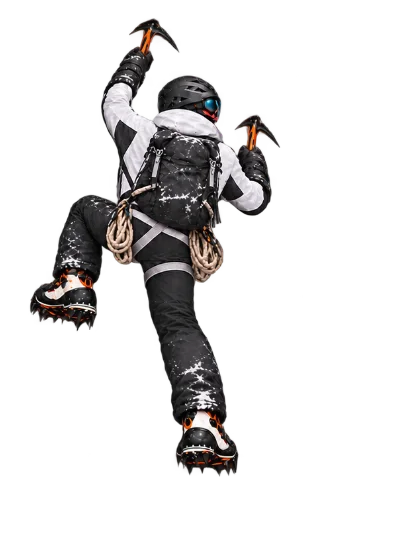
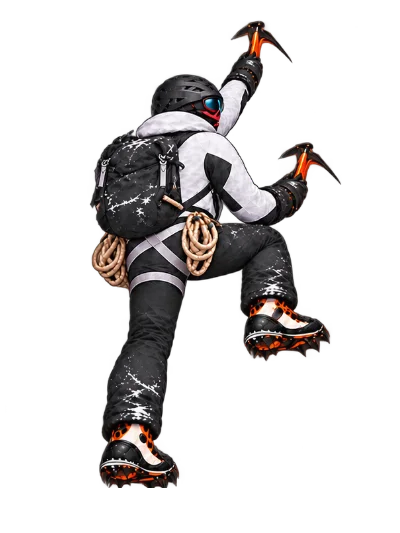
Keep Ascent climber right-facing through every pose

Changed region(s): [[0.06, 0.03, 0.84, 0.9306], [0.84, 0.3302, 0.87, 0.3602]]

diff --git a/_includes/expedition.html b/_includes/expedition.html
@@ -22,7 +22,7 @@
         <ellipse class="expedition-contact-shadow" data-expedition-contact rx="17" ry="5" filter="url(#expedition-contact-blur)" />
         <g class="expedition-climber" data-expedition-climber>
           <svg x="-54" y="-106" width="88" height="117" viewBox="0 0 400 533" overflow="visible">
-            <image data-climber-frame-primary href="{{ '/assets/media/ascent-climber-frame-01.webp' | relative_url }}?v=ascent-11" width="400" height="533" />
+            <image data-climber-frame-primary href="{{ '/assets/media/ascent-climber-frame-01.webp' | relative_url }}?v=ascent-12" width="400" height="533" />
           </svg>
         </g>
       </g>

diff --git a/_layouts/default.html b/_layouts/default.html
@@ -19,7 +19,7 @@
   <script src="{{ '/assets/js/site.js' | relative_url }}" defer></script>
   <script src="{{ '/assets/js/experience.js' | relative_url }}" defer></script>
   <script src="{{ '/assets/js/contact.js' | relative_url }}" defer></script>
-  {% if page.url == '/journey/' %}<script src="{{ '/assets/js/expedition.js' | relative_url }}?v=ascent-11" defer></script>{% endif %}
+  {% if page.url == '/journey/' %}<script src="{{ '/assets/js/expedition.js' | relative_url }}?v=ascent-12" defer></script>{% endif %}
 </head>
 <body data-baseurl="{{ site.baseurl }}">
   {% include header.html %}

diff --git a/PROJECT_STATUS.md b/PROJECT_STATUS.md
@@ -4,7 +4,7 @@ Updated: October 12, 2026 (America/Los_Angeles).
 
 ## Current state
 
-**The approved site design remains intact. The dedicated Ascent now uses 16 newly drawn, complete black-and-white mountaineer poses.** Each image contains the whole body and gear; the old hinge-based artwork and six previous pose sources are no longer used. The self-service Markdown workflow, original content, four navigation destinations, existing links and approved page structure remain intact. Earlier Firefox/WebKit results predate this latest refinement; their executables are unavailable in this environment. Nothing has been pushed, merged or deployed.
+**The approved site design remains intact. The dedicated Ascent uses 16 complete black-and-white mountaineer poses, now all viewed from the same right-facing rear-three-quarter angle.** Each image contains the whole body and gear, including both legs and boots; the old hinge-based artwork is no longer used. The self-service Markdown workflow, original content, four navigation destinations, existing links and approved page structure remain intact. Earlier Firefox/WebKit results predate this latest refinement; their executables are unavailable in this environment. Nothing has been pushed, merged or deployed.
 
 - Active repository: `C:/Users/super/Documents/ChatGPT/portfolio website remodel/portfolio-v2`.
 - Branch: `codex/portfolio-v2`, based on `da50b14` (`main`).
@@ -13,7 +13,16 @@ Updated: October 12, 2026 (America/Los_Angeles).
 - Local preview: `http://127.0.0.1:4173/`, serving production `_site` output.
 - Parent workspace `PROJECT_STATUS.md` points here. This is the canonical handoff.
 
-## October 12 complete-frame redraw — latest handoff
+## October 12 right-facing pose correction — latest handoff
+
+- Completed: replaced the three middle/end sprite sheets that had turned the character to a straight-back view or hidden a leg. All 16 shipped whole-body frames now use the same right-facing rear-three-quarter view as the user's third reference screenshot, with blue goggle profile visible, two separately drawn legs/boots and two ice tools directed at the wall to the right. Regenerated the WebPs, inspected a 16-pose contact sheet and a rendered `/journey/` desktop scene, and bumped the site assets to `ascent-12`. No background, page layout, content, routes or other site component changed.
+- Currently in progress: none after this correction is committed; real-device review remains before production.
+- Design/technical decisions: retain individually drawn complete frames and the existing registered image/camera architecture. Do not rotate the character toward the viewer during handovers. No separate hinged or scaled body parts are shipped.
+- Testing performed: baseline Chrome Ascent test passed before editing. A first post-edit test caught an overextended support leg; that source sheet was redrawn and regenerated. Reviewed all 16 exported figures in a contact sheet and inspected frames 01, 06, 09 and 14 over the actual `/journey/` wall in Chrome. Production Jekyll build, all 16 frame decoding and leg/boot checks, full Chrome suite (94 routes, 132 responsive pages, 22 axe scans, six general groups, 10 experience groups, 11 editorial groups and 10 Ascent groups), source/content integrity (26 original files, nine post routes, 47 HTML pages, 1,688 local references), JavaScript syntax and Git whitespace checks all passed.
+- Known issues and limits: independent generated drawings still step discretely at very slow scroll speeds. The right-facing composition makes the bent near leg dominate the illustrated cycle; the opposite-side foot action is less distinct than an accurately animated two-sided climb. The tools are shown in right-facing side profile, but their exact contact points are illustrative. Real-device motion review, Firefox/WebKit runners, branch-only Linux CI and custom-domain verification remain outstanding. Nothing pushed, merged or deployed.
+- **Exact recommended next task:** review the revised right-facing Ascent with slow and fast scrolling on a real desktop and phone. If the climbing gait still needs fully alternating leg action without a viewpoint change, create a purpose-animated full-body sequence from one consistent 3D character model, render each complete pose, and replace the current sprite sources; keep the approved site design and whole-frame playback. Then run cross-browser and branch-only CI before production.
+
+## October 12 complete-frame redraw — earlier handoff, superseded where noted above
 
 - Completed: replaced the previous six mixed pose sources with four fresh transparent 2 × 2 sheets containing 16 individually drawn **whole climbers**. Curated the step and handover order, aligned frames by the goggle position at export, removed a stray crop fragment, regenerated all 400 × 533 WebPs and removed the unused seventeenth frame. The runtime still displays one whole image at a time; there are no separate arm/leg/body pieces, joint rotations, or limb scaling. Ice tools read in side profile toward the wall. The Everest background, route, posts, page layouts, navigation and other site elements were not changed. Bumped Ascent asset/script URLs to `ascent-11`.
 - Currently in progress: none in the code. A real-device motion judgment remains before calling the animation production-ready.

diff --git a/docs/ASCENT_ART.md b/docs/ASCENT_ART.md
@@ -10,7 +10,8 @@ The mountain backdrop, close ice wall and climber poses are original generated i
 - Earlier orange climber source: `assets/img/ascent-climber-frames.png`; its first transparent pose remains at `assets/media/ascent-climber-01.webp` for provenance, but is no longer loaded by the page. That sheet did not provide the current black-and-white frame sequence.
 - Earlier black-and-white climber source: `assets/img/ascent-climber-alpine.png` (1086 × 1448, transparent); optimized single pose: `assets/media/ascent-climber-alpine.webp`. It informed the current clothing, gear and view angle. The hinged raster-limb rig that cut up this painting was removed after it repeatedly produced broken-looking joints.
 - Current animation sources: four newly generated transparent 2 × 2 sheets, `assets/img/ascent-climber-clean-right.png`, `ascent-climber-clean-crossover-left.png`, `ascent-climber-clean-left.png`, and `ascent-climber-clean-crossover-right.png`. Every panel is an independently drawn **complete figure** with its own torso, arms, legs, boots, tools and gear. The former six pose sources were removed after the clean-sheet redraw; Git history retains them. `npm run build:climber-frames` selects and orders 16 complete poses, aligns each by its blue goggle lens, removes tiny disconnected crop artifacts, and exports `assets/media/ascent-climber-frame-01.webp` through `-16.webp` (400 × 533). `node scripts/preview_climber_frames.cjs` writes an inspection contact sheet to `test-results/`.
-- The site warms the remaining 15 WebPs after the first page paint or on the viewer's first scroll interaction, and shows exactly one complete pose at a time. Arms, legs, jacket and gear are never independently rotated or resized. A two-image crossfade was previously rejected because it made the climber translucent and duplicated tools/feet; an optical-flow intermediate produced broken extra legs. The scene's route/camera update continuously, while the artwork remains 16 discrete poses per entry rather than a filmed or physically simulated climb. Reduced-motion holds the first pose. The outfit is unbranded black-and-white alpine technical gear. The rendered asset and script version is `ascent-11`.
+- October 12 right-profile correction: replaced the crossover-left, left-leading, and crossover-right sheets after browser screenshots revealed straight-back poses and a hidden leg. All 16 current frames retain the right-facing rear-three-quarter camera view established by the right-leading sheet. Both legs and crampon boots are visible in every frame, and the ice-axe pick ends face the wall on the right. The rendered asset/script URL is `ascent-12`. The pose sequence remains an illustration with discrete frames; a more physically faithful alternating-foot cycle would need dedicated character animation rather than further swapping independently generated stills.
+- The site warms the remaining 15 WebPs after the first page paint or on the viewer's first scroll interaction, and shows exactly one complete pose at a time. Arms, legs, jacket and gear are never independently rotated or resized. A two-image crossfade was previously rejected because it made the climber translucent and duplicated tools/feet; an optical-flow intermediate produced broken extra legs. The scene's route/camera update continuously, while the artwork remains 16 discrete poses per entry rather than a filmed or physically simulated climb. Reduced-motion holds the first pose. The outfit is unbranded black-and-white alpine technical gear.
 - The Home identity section reuses the existing Everest illustration through its 800 px WebP derivative. No new mountain asset was generated.
 
 Movement references: [Petzl's ice-climbing technique video](https://www.petzl.com/int/en/sport/tech-tips/basic-techniques/ice-climbing-technique---the-basics/Cascade-gestuelle_SPO_a771r000000PFoJAAW.html), [Petzl's Ice Climbing Basics access book](https://s3.amazonaws.com/Petzl_home_Prod/Accessbook/ACCESSBOOK-ICE-CLIMBING-EN-2018.pdf), and [REI's ice-climbing guidance](https://www.rei.com/learn/expert-advice/ice-climbing-waterfalls-alpine-walls.html) emphasize stable tool/foot placements and rising through the legs. These sources informed the illustration's rhythm; the individual drawn poses are not climbing instruction or a physical simulation.
